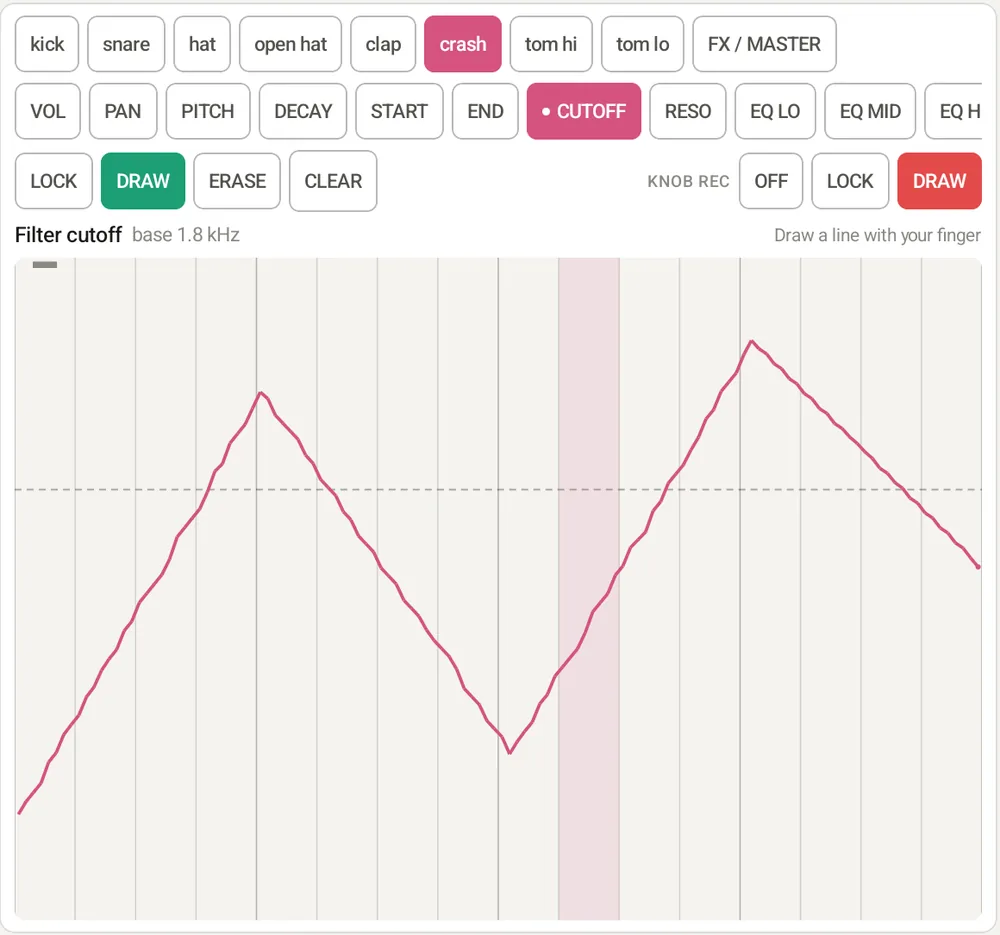
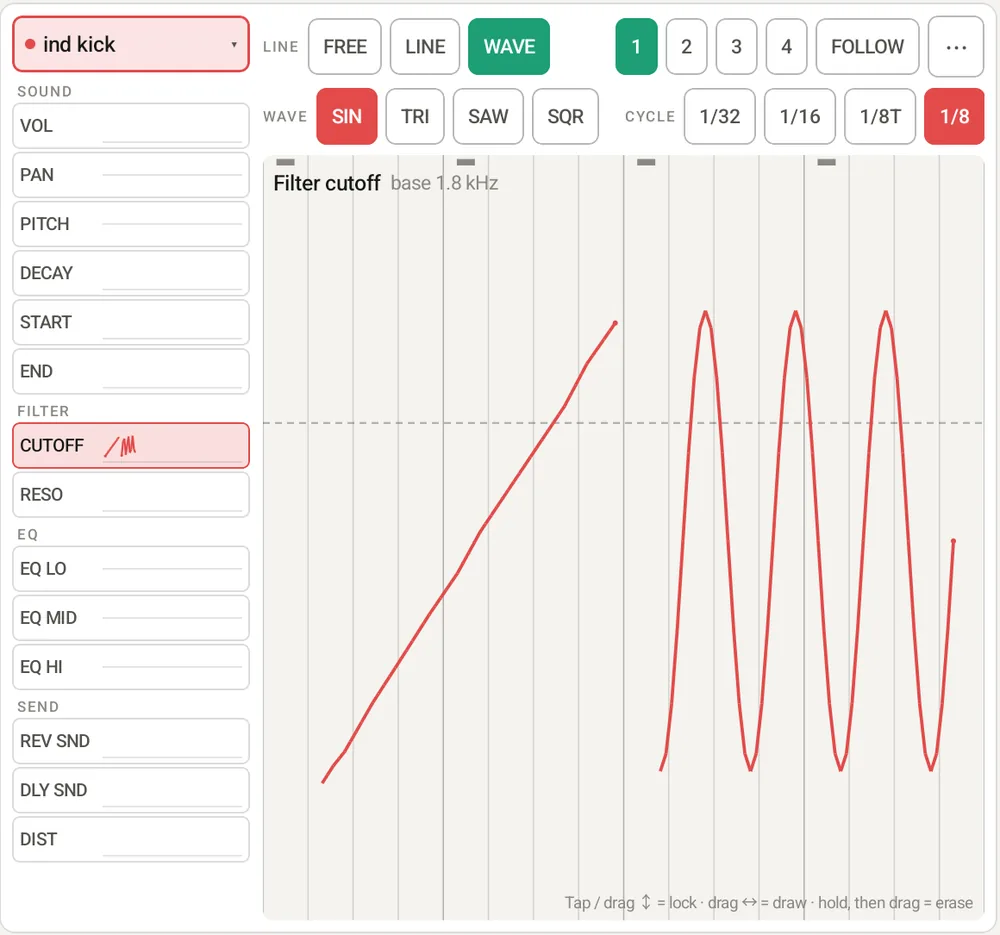
DBR-1 manual: new automation screen, MACRO
Claude-Session: https://claude.ai/code/session_014nrG8LAda3EPv8TQp5hzGz

diff --git a/dbr1/manual/ja.html b/dbr1/manual/ja.html
@@ -60,7 +60,7 @@
 <tr><td class="n"><span class="num">16</span></td><td>ステップ</td><td>タップで ON / OFF。中のバーの高さは音の強さ（ベロシティ）</td></tr>
 <tr><td class="n"><span class="num">17</span></td><td>LEN・ページ・FOLLOW</td><td>パターンの長さ（1〜64 ステップ）、表示するページ（1〜4）、ページを再生位置に合わせるか</td></tr>
 <tr><td class="n"><span class="num">18</span></td><td>SWIPE・GAPS</td><td>なぞって入力するときの間隔（→ <a href="#beat">2</a>）</td></tr>
-<tr><td class="n"><span class="num">19</span></td><td>FLT（全体フィルター）</td><td>上へ動かすとハイパス、下へ動かすとローパス（→ <a href="#perform">7</a>）</td></tr>
+<tr><td class="n"><span class="num">19</span></td><td>FLT（全体フィルター）/ MACRO</td><td>上へ動かすとハイパス、下へ動かすとローパス。上の名前のタップで MACRO（割り当てたパラメーターの足し引き）に切り替え（→ <a href="#macro">7</a>）</td></tr>
 <tr><td class="n"><span class="num">20</span></td><td>ROLL・SLIP・REV</td><td>演奏用のボタン（→ <a href="#perform">7</a>）</td></tr>
 <tr><td class="n"><span class="num">21</span></td><td>パッド</td><td>叩くと鳴り、そのトラックを選択します。再生中は鳴ったトラックのパッドが光ります</td></tr>
 <tr><td class="n"><span class="num">22</span></td><td>タブ</td><td>SOUND / FILTER / VELOCITY / FX / SONG の切り替え</td></tr>
@@ -75,7 +75,7 @@
 <tr><td class="n"><span class="num">3</span></td><td>ROLL・長さ・SLIP・REV</td><td>長さはタップで 1/4 → 1/8 → 1/16 → 1/32 と切り替え</td></tr>
 <tr><td class="n"><span class="num">4〜10</span></td><td>BANK・REC・▶・CLR・↶↷・TAP・BPM</td><td>タブレットと同じ</td></tr>
 <tr><td class="n"><span class="num">11</span></td><td>画面の切り替え</td><td>SEQ（ステップ）/ PADS / SOUND / FILTER / VEL / FX / SONG / MIX（ミキサー）/ AUTO（オートメーション）</td></tr>
-<tr><td class="n"><span class="num">12</span></td><td>FLT</td><td>全体フィルター（どの画面でも使えます）</td></tr>
+<tr><td class="n"><span class="num">12</span></td><td>FLT</td><td>全体フィルター / MACRO（どの画面でも使えます）</td></tr>
 </table>
 <div class="cols">
 <figure><img src="img/phone_pads.webp" alt="PADS 画面"><figcaption>PADS: 16 個のパッド</figcaption></figure>
@@ -302,6 +302,14 @@
 </table>
 <h3>全体フィルター（FLT）</h3>
 <p>縦のフェーダーを中央から上へ動かすとハイパス（低音が削れる）、下へ動かすとローパス（高音が削れる）がかかります。中央付近は OFF です。設定は FILTER タブの Master で変えられます。</p>
+<h3 id="macro">MACRO（好きなパラメーターをフェーダーで動かす）</h3>
+<p>フェーダーの上の名前（<span class="key">FLT</span>）を<b>タップ</b>すると、フェーダーの役割が <b>FLT</b>（全体フィルター）と <b>MACRO</b> で切り替わります。MACRO では、割り当てたパラメーターをまとめて足し引きできます（例: グラインダーのカットオフを開きながら、リバーブを深く、キックを小さく）。</p>
+<ul>
+  <li><b>長押し</b>で割り当ての画面が開きます。<b>+ Add</b> で行を足し、行ごとに対象（16 トラックか FX / MASTER）・パラメーター・量（AMT: −100〜+100%）を選びます。最大 8 つ。同じパラメーターを複数入れると量を足し合わせます。割り当てがないまま MACRO にしようとしたときも、この画面が開きます。</li>
+  <li>フェーダーを中央から<b>上げると量の分だけ足し、下げると引きます</b>（量がマイナスの行は逆向き）。端まで動かすと、ちょうど量の分です。今の値（元の値・ロック・線）に足し引きするので、オートメーションの動きはそのまま残ります。上限・下限まで行ったら、それ以上は変わりません。</li>
+  <li>フェーダーの下には足し引きの量（+ / −）、動かしていないときは割り当ての数（×2 など）が出ます。FILTER タブの AUTO RETURN が ON なら、指を離すと中央（足し引きなし）に戻ります。</li>
+  <li>役割と割り当てはプロジェクトに保存されます（フェーダーの位置は保存しません。↶ の対象外）。トラックを入れ替えると、割り当ても付いていきます。音の書き出し（PATTERN / SONG）にはかからず、RECORD（演奏の録音・録画）では聞こえるとおりに残ります。</li>
+</ul>
 </section>
 
 <!-- ============================================================ -->
@@ -325,16 +333,30 @@
 </ul>
 <h3 id="automation">オートメーション（AUTO）</h3>
 <p>音量・パン・フィルター・EQ・センド量・FX・MASTER などを、パターンの中で動かせます。タブレットはヘッダーの <span class="key">AUTO</span>、スマートフォンは左の <span class="key">AUTO</span> で開きます。オートメーションはパターンごとに保存されます。</p>
-<figure><img src="img/automation.webp" alt="オートメーション"><figcaption>DRAW で crash のフィルターのカットオフに線を描いたところ</figcaption></figure>
+<figure><img src="img/automation.webp" alt="オートメーション"><figcaption>左がパラメーターの一覧（それぞれの線を小さく表示）。ind kick のカットオフに LINE と WAVE で線を描いたところ</figcaption></figure>
 <ul>
-  <li>上の段で対象を選びます: トラック（表示中のバンク）か <b>FX / MASTER</b>（リバーブ・ディレイ・ディストーションの設定、MASTER の音量、全体フィルター）。次の段で動かすパラメーターを選びます（赤い点 = オートメーションあり）。</li>
-  <li><b>LOCK（パラメーターロック）</b>: ステップを上下にドラッグすると、そのステップの値が決まります。トラックでは、ロックした音はその値で鳴り、次に音（かロック）が来るまで続きます。ロックのない音は元の値に戻ります。FX / MASTER は、そのステップの間だけです。</li>
-  <li><b>DRAW</b>: 線を描きます。描いた所は線の値、描いていない所は元の値（点線）です。1 ステップを 8 点で持ち、間はなめらかにつなぎます。描き方は 3 つ:
+  <li><b>左の列</b>: 一番上の <b>● トラック名 ▾</b> で対象を選びます（表示中のバンクの 8 トラックか <b>FX / MASTER</b> = リバーブ・ディレイ・ディストーションの設定、MASTER の音量、全体フィルター）。その下はパラメーターの一覧で、SOUND・FILTER・EQ・SEND（FX / MASTER では MASTER・REVERB・DELAY・DIST）に分けて並びます。各行の右に、パターン全体の線とロックが小さく出るので、どこに動きがあるか一目で分かります。タップで選びます。</li>
+  <li><b>描き方は指の動きで変わります</b>（モードの切り替えはありません）:
+    <ul>
+      <li><b>タップ</b> = そのステップに、触れた高さでロック（パラメーターロック）。</li>
+      <li><b>上下にドラッグ</b> = ロック。そのまま横へ動かすと、隣のステップにも続けてロックします。</li>
+      <li><b>横・斜めになぞる</b> = 線を描きます（上の <b>LINE</b> で選んだ形）。</li>
+      <li><b>長押し（振動）してからなぞる</b> = なぞった所のロックと線を消します。</li>
+    </ul></li>
+  <li><b>ロック</b>: トラックでは、ロックした音はその値で鳴り、次の音（またはロック）まで続きます。ロックのない音は元の値に戻ります。FX / MASTER のロックはそのステップの間だけです。</li>
+  <li><b>線</b>: 描いた所は線の値、描いていない所は元の値（点線）です。1 ステップを 8 点で持ち、間はなめらかにつなぎます。形は 3 つ:
     <ul>
       <li><b>FREE</b> = 指でなぞったとおり。</li>
       <li><b>LINE</b> = 触れた点から離した点までの直線（フェードイン・アウトや、だんだん開くフィルターに）。</li>
-      <li><b>WAVE</b> = 波形。横にドラッグした範囲に、触れた点の高さと指の高さの間を行き来する波を描きます。形は SIN / TRI / SAW / SQR、1 周期の長さは 1/32〜1 BAR（1/8T は 3 連符）。ワブルベースやトレモロ、オートパンに。</li>
+      <li><b>WAVE</b> = 波形。横にドラッグした範囲に、触れた点の高さと指の高さの間を行き来する波を描きます。WAVE を選ぶと 2 行目に形（SIN / TRI / SAW / SQR）と 1 周期の長さ（1/32〜1 BAR、1/8T = 8 分の 3 連符）が出ます。ワブルベース・トレモロ・オートパンに。</li>
     </ul>
+    LINE と WAVE は、指を離すまで何度でも描き直せます（描き始める前の線に戻してから描きます）。</li>
+  <li>1〜4 で表示するページを切り替えます（パターンが 16 ステップより長いときに表示）。<b>FOLLOW</b> を ON にすると、再生中は表示するページが再生位置に付いていきます（SEQ の FOLLOW と同じ設定で、どちらで切り替えても両方に効きます。指で描いている間はページを動かしません）。</li>
+  <li><b>⋯</b>: 「Clear（パラメーター名）」で選んだパラメーターのロックと線を全部消します。<b>KNOB REC</b> もここで選びます: <span class="key">REC</span> を点けて再生中に画面のつまみ（または MIDI の CC）を動かすと、その動きを記録します。DRAW（既定）= 線として、LOCK = 近いステップのロックとして。OFF = 記録しない（つまみは普通に値を変えます）。記録している間、元の値は変わりません。</li>
+  <li><b>スマートフォン</b>: 右上の <b>FULL</b> で全画面になり、上のボタン列と左のタブが消えて広く描けます。全画面では ▶ / ■（再生・停止）と <b>EXIT</b>（戻る）が右上に出ます。</li>
+  <li>優先の順は「動かしている最中のつまみ ＞ ロック ＞ 線 ＞ 元の値」です（メインフェーダーの MACRO は、その結果に足し引きします）。</li>
+  <li>↶（元に戻す）で取り消せます。CLEAR（ヘッダー）はステップと一緒にロックも消し、線は残します。</li>
+</ul>
     LINE と WAVE は、指を離すまで何度でも描き直せます（描き始める前の線に戻してから描きます）。</li>
   <li><b>ERASE</b> を点けてなぞると、なぞった所のロック・線を消します。<b>CLEAR</b> は選んだパラメーターのロックと線を全部消します。1〜4 で表示するページを切り替えます（パターンが 16 ステップより長いときに表示）。<b>FOLLOW</b> を ON にすると、再生中は表示するページが再生位置に付いていきます（SEQ の FOLLOW と同じ設定で、どちらで切り替えても両方に効きます。指で描いている間はページを動かしません）。</li>
   <li>優先の順は「動かしている最中のつまみ ＞ ロック ＞ 線 ＞ 元の値」です。</li>
@@ -535,6 +557,7 @@
 <tr><th>項目</th><th>仕様</th></tr>
 <tr><td>トラックのフィルター</td><td>LP12・LP24・HP12・HP24・BP・NOTCH。cutoff 20Hz〜20kHz、reso</td></tr>
 <tr><td>全体フィルター（FLT）</td><td>LP / HP（フェーダーの上下）または BP、12dB / 24dB、reso、AUTO RETURN</td></tr>
+<tr><td>MACRO</td><td>割り当て 8 つまで（16 トラック × 14 パラメーター / FX・MASTER 12 パラメーター）、量 −100〜+100%（5% 刻み）。今の値に足し引きし 0〜最大で止める</td></tr>
 <tr><td>リバーブ</td><td>size・damp・mix・pre-delay（0〜200ms）。全体に 1 系統、トラックごとに送る量</td></tr>
 <tr><td>ディレイ</td><td>time・feedback・mix・sync（1/4・1/8・1/16・1/32・3/8・付点 8 分・FREE 10ms〜1s）。ステレオ、全体に 1 系統</td></tr>
 <tr><td>ディストーション</td><td>drive・tone・level。トラックごと</td></tr>

diff --git a/dbr1/manual/en.html b/dbr1/manual/en.html
@@ -60,7 +60,7 @@
 <tr><td class="n"><span class="num">16</span></td><td>Steps</td><td>Tap to turn on / off. The bar inside shows the velocity</td></tr>
 <tr><td class="n"><span class="num">17</span></td><td>LEN, pages, FOLLOW</td><td>Pattern length (1–64 steps), the page on screen (1–4), and whether the page follows the playhead</td></tr>
 <tr><td class="n"><span class="num">18</span></td><td>SWIPE, GAPS</td><td>Spacing used when you swipe across steps (→ <a href="#beat">2</a>)</td></tr>
-<tr><td class="n"><span class="num">19</span></td><td>FLT (master filter)</td><td>Up = high-pass, down = low-pass (→ <a href="#perform">7</a>)</td></tr>
+<tr><td class="n"><span class="num">19</span></td><td>FLT (master filter) / MACRO</td><td>Up = high-pass, down = low-pass. Tap the name above it to switch to MACRO (adds to / subtracts from assigned parameters) (→ <a href="#macro">7</a>)</td></tr>
 <tr><td class="n"><span class="num">20</span></td><td>ROLL, SLIP, REV</td><td>Performance buttons (→ <a href="#perform">7</a>)</td></tr>
 <tr><td class="n"><span class="num">21</span></td><td>Pads</td><td>Hit to play the sound and select that track. While playing, the pad of each track that plays lights up</td></tr>
 <tr><td class="n"><span class="num">22</span></td><td>Tabs</td><td>SOUND / FILTER / VELOCITY / FX / SONG</td></tr>
@@ -75,7 +75,7 @@
 <tr><td class="n"><span class="num">3</span></td><td>ROLL, length, SLIP, REV</td><td>Tap the length to cycle 1/4 → 1/8 → 1/16 → 1/32</td></tr>
 <tr><td class="n"><span class="num">4–10</span></td><td>BANK, REC, ▶, CLR, ↶↷, TAP, BPM</td><td>Same as on the tablet</td></tr>
 <tr><td class="n"><span class="num">11</span></td><td>Views</td><td>SEQ (steps) / PADS / SOUND / FILTER / VEL / FX / SONG / MIX (mixer) / AUTO (automation)</td></tr>
-<tr><td class="n"><span class="num">12</span></td><td>FLT</td><td>Master filter (available on every view)</td></tr>
+<tr><td class="n"><span class="num">12</span></td><td>FLT</td><td>Master filter / MACRO (available on every view)</td></tr>
 </table>
 <div class="cols">
 <figure><img src="img/phone_pads.webp" alt="PADS view"><figcaption>PADS: the 16 pads</figcaption></figure>
@@ -302,6 +302,14 @@
 </table>
 <h3>Master filter (FLT)</h3>
 <p>Move the vertical fader up from the center for a high-pass (thinner sound) or down for a low-pass (darker sound). Around the center it is off. Change its type in the Master part of the FILTER tab.</p>
+<h3 id="macro">MACRO (move any parameters with the fader)</h3>
+<p><b>Tap</b> the name above the fader (<span class="key">FLT</span>) to switch the fader between <b>FLT</b> (master filter) and <b>MACRO</b>. In MACRO, the fader adds to or subtracts from the parameters you assign, all at once (for example: open the grinder's cutoff while deepening the reverb and pulling the kick down).</p>
+<ul>
+  <li><b>Long-press</b> it to open the assignments. <b>+ Add</b> adds a row; pick the target (one of the 16 tracks or FX / MASTER), the parameter and the amount (AMT: −100 to +100%) for each. Up to 8. The same parameter in several rows adds up. The screen also opens if you switch to MACRO with nothing assigned.</li>
+  <li>Moving the fader <b>up from the center adds the amount, down subtracts it</b> (rows with a negative amount go the other way). At the end of the fader you get exactly the amount. It works on the current value (normal value, lock or line), so automation keeps moving; values stop at their limits.</li>
+  <li>Below the fader you see how much is added (+ / −), or the number of assignments (×2 etc.) when it is at the center. With AUTO RETURN on (FILTER tab), the fader returns to the center when you let go.</li>
+  <li>The mode and assignments are saved with the project (the fader position is not; undo does not cover them). Swapping tracks keeps the assignments on the swapped tracks. MACRO does not affect PATTERN / SONG exports; RECORD (recording your performance) captures it as you hear it.</li>
+</ul>
 </section>
 
 <!-- ============================================================ -->
@@ -325,16 +333,30 @@
 </ul>
 <h3 id="automation">Automation (AUTO)</h3>
 <p>Volume, pan, filter, EQ, sends, effects, master volume and more can move within a pattern. On a tablet, tap <span class="key">AUTO</span> in the header; on a phone, open <span class="key">AUTO</span> on the left. Automation is saved with each pattern.</p>
-<figure><img src="img/automation.webp" alt="Automation"><figcaption>A line drawn with DRAW on the crash filter cutoff</figcaption></figure>
+<figure><img src="img/automation.webp" alt="Automation"><figcaption>The parameter list on the left shows each line in small. Lines drawn with LINE and WAVE on the ind kick cutoff</figcaption></figure>
 <ul>
-  <li>The top row picks what to automate: a track (current bank) or <b>FX / MASTER</b> (reverb, delay and distortion settings, master volume, master filter). The next row picks the parameter (a red dot = it has automation).</li>
-  <li><b>LOCK (parameter locks)</b>: drag a step up or down to set the value for that step. On a track, a locked hit plays with that value, and it holds until the next hit (or lock); hits without a lock go back to the normal value. For FX / MASTER, a lock lasts for that step only.</li>
-  <li><b>DRAW</b>: draw a line. Where you drew, the line's value is used; elsewhere the normal value (dotted line). Each step has 8 points, smoothly joined. Three ways to draw:
+  <li><b>Left column</b>: <b>● track name ▾</b> at the top picks what to automate (one of the 8 tracks of the current bank, or <b>FX / MASTER</b> = reverb, delay and distortion settings, master volume, master filter). Below it is the parameter list, grouped into SOUND, FILTER, EQ and SEND (MASTER, REVERB, DELAY and DIST for FX / MASTER). Each row shows that parameter's lines and locks for the whole pattern in small, so you can see at a glance what moves. Tap to select.</li>
+  <li><b>What you draw depends on how you move your finger</b> (no modes to switch):
+    <ul>
+      <li><b>Tap</b> = lock that step to the height you touched (parameter lock).</li>
+      <li><b>Drag up or down</b> = lock. Keep moving sideways to lock the next steps too.</li>
+      <li><b>Swipe sideways or diagonally</b> = draw a line (the shape chosen under <b>LINE</b> at the top).</li>
+      <li><b>Hold (it vibrates), then swipe</b> = erase locks and lines where you swipe.</li>
+    </ul></li>
+  <li><b>Locks</b>: on a track, a locked hit plays with that value, and it holds until the next hit (or lock); hits without a lock go back to the normal value. For FX / MASTER, a lock lasts for that step only.</li>
+  <li><b>Lines</b>: where you drew, the line's value is used; elsewhere the normal value (dotted line). Each step has 8 points, smoothly joined. Three shapes:
     <ul>
       <li><b>FREE</b> = follows your finger.</li>
       <li><b>LINE</b> = a straight line from where you touch to where you let go (fades, a filter that slowly opens).</li>
-      <li><b>WAVE</b> = a waveform. Drag sideways for its length; it moves between the height where you touched and your finger's height. Shapes SIN / TRI / SAW / SQR, one cycle from 1/32 to 1 BAR (1/8T = eighth-note triplets). Great for wobble bass, tremolo and auto-pan.</li>
+      <li><b>WAVE</b> = a waveform. Drag sideways for its length; it moves between the height where you touched and your finger's height. With WAVE selected, a second row shows the shape (SIN / TRI / SAW / SQR) and one cycle (1/32 to 1 BAR, 1/8T = eighth-note triplets). Great for wobble bass, tremolo and auto-pan.</li>
     </ul>
+    LINE and WAVE redraw as you move until you let go (starting again from the line as it was before).</li>
+  <li>1–4 switch the page shown (shown when the pattern is longer than 16 steps). With <b>FOLLOW</b> on, the page follows the playback position (it is the same setting as FOLLOW in SEQ: switching either one changes both; the page stays put while you are drawing).</li>
+  <li><b>⋯</b>: "Clear (parameter name)" removes all locks and lines of the selected parameter. <b>KNOB REC</b> is here too: with <span class="key">REC</span> on and playing, moving an on-screen control (or a MIDI CC) records the movement. DRAW (default) = as a line, LOCK = as a lock on the nearest step. OFF = don't record; the control changes the value as usual. While recording, the normal value is left unchanged.</li>
+  <li><b>Phones</b>: <b>FULL</b> at the top right hides the top buttons and the left tabs so you can draw on almost the whole screen. In full screen, ▶ / ■ (play / stop) and <b>EXIT</b> appear at the top right.</li>
+  <li>Priority: a control you are moving now &gt; lock &gt; line &gt; normal value (the main fader's MACRO adds to or subtracts from the result).</li>
+  <li>Undo (↶) works. CLEAR in the header clears locks along with the steps and keeps lines.</li>
+</ul>
     LINE and WAVE redraw as you move until you let go (starting again from the line as it was before).</li>
   <li>Turn on <b>ERASE</b> and swipe to remove locks or line there. <b>CLEAR</b> removes all locks and lines of the selected parameter. 1–4 switch the page shown (shown when the pattern is longer than 16 steps). With <b>FOLLOW</b> on, the page follows the playback position (it is the same setting as FOLLOW in SEQ: switching either one changes both; the page stays put while you are drawing).</li>
   <li>Priority: a control you are moving now &gt; lock &gt; line &gt; normal value.</li>
@@ -535,6 +557,7 @@
 <tr><th>Item</th><th>Spec</th></tr>
 <tr><td>Track filter</td><td>LP12, LP24, HP12, HP24, BP, NOTCH; cutoff 20 Hz – 20 kHz, reso</td></tr>
 <tr><td>Master filter (FLT)</td><td>LP / HP (fader down / up) or BP, 12 dB / 24 dB, reso, AUTO RETURN</td></tr>
+<tr><td>MACRO</td><td>Up to 8 assignments (16 tracks × 14 parameters / 12 FX & master parameters), amount −100 to +100% (5% steps). Adds to the current value and stops at the limits</td></tr>
 <tr><td>Reverb</td><td>size, damp, mix, pre-delay (0–200 ms); one shared reverb with a send per track</td></tr>
 <tr><td>Delay</td><td>time, feedback, mix, sync (1/4, 1/8, 1/16, 1/32, 3/8, dotted 1/8, FREE 10 ms – 1 s); stereo, one shared delay</td></tr>
 <tr><td>Distortion</td><td>drive, tone, level; per track</td></tr>
